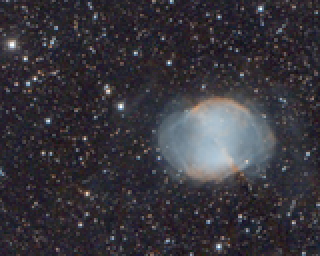
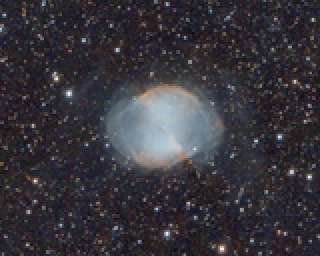
M27: back to the centre measured in the gallery image (the last commit moved it off-centre)

diff --git a/photobox.py b/photobox.py
@@ -23,7 +23,7 @@ PHOTOS = [
     ("m45",     "m45",          "M45 Pleiades",                   ("fit",)),
     ("m1",      "m1",           "M1 Crab Nebula",                 ("crop", 0.52, 0.49, 0.40)),
     ("m13",     "m13",          "M13 Hercules Cluster",           ("crop", 0.50, 0.51, 0.45)),
-    ("m27",     "m27",          "M27 Dumbbell Nebula",            ("crop", 0.47, 0.49, 0.40)),
+    ("m27",     "m27",          "M27 Dumbbell Nebula",            ("crop", 0.52, 0.51, 0.40)),
     ("m57",     "m57",          "M57 Ring Nebula",                ("crop", 0.47, 0.69, 0.16)),
     ("ngc6888", "ngc6888",      "NGC 6888 Crescent Nebula",       ("crop", 0.48, 0.42, 0.85)),
     ("ngc2174", "ngc2174",      "NGC 2174 Monkey Head Nebula",    ("crop", 0.53, 0.51, 0.85)),
